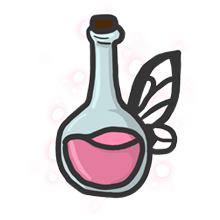
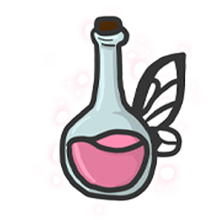
lots of little fixes
Edited titles to be bolder, updated fairy tonic illustration, center home page header image, fixed navigation text to float in the center

Changed region(s): [[0.2455, 0.0545, 0.8727, 0.9273]]

diff --git a/recipes.html b/recipes.html
@@ -140,7 +140,7 @@
               <!-- Cakes Recipe page -->
               <div class="tabs-panel is-active" id="panel1v">
                 <div class="panel-title">
-                  <h1>Cakes</h1>
+                  <h1 class="recipe-title">Cakes</h1>
                 </div>
 
                 <!-- First Row -->
@@ -203,7 +203,7 @@
               <!-- Pie Recipe page -->
               <div class="tabs-panel" id="panel2v">
                 <div class="panel-title">
-                  <h1>Pies</h1>
+                  <h1 class="recipe-title">Pies</h1>
                 </div>
 
                 <!-- First Row -->
@@ -254,7 +254,7 @@
               <!-- Crepes Recipe page -->
               <div class="tabs-panel" id="panel3v">
                 <div class="panel-title">
-                  <h1>Crepes</h1>
+                  <h1 class="recipe-title">Crepes</h1>
                 </div>
 
                 <!-- First Row -->
@@ -278,7 +278,7 @@
               <!-- Elixirs Recipe page -->
               <div class="tabs-panel elixirs" id="panel4v">
                 <div class="panel-title">
-                  <h1>Elixirs</h1>
+                  <h1 class="recipe-title">Elixirs</h1>
                 </div>
 
                 <!-- First Row -->

diff --git a/index.html b/index.html
@@ -125,8 +125,8 @@
         <div class="callout" div id="body">
           <!-- PAGE HEADER AND TITLE -->
           <div class="callout" div id="title-index">
-            <img src="images/zelda overlooking.jpg" class="center" img id="carry" alt="Zelda carrying food">
-            <h1>Taste of the Wild</h1>
+            <img src="images/zelda overlooking.jpg" class="header-img" img id="carry" alt="Zelda carrying food">
+            <h1 class="recipe-title">Taste of the Wild</h1>
             <h5>Recipes inspired by Breath of the Wild</h5>
           </div>
           <!-- WELCOME AND ABOUT CONTENT -->

diff --git a/cakes/fruitcake.html b/cakes/fruitcake.html
@@ -92,7 +92,7 @@
         <div class="callout" div id="body">
           <div class="callout" div id="title">
             <img src="../images/fruit cake.png" img id="cake" alt="Fruit Cake">
-            <h1>Fruitcake</h1>
+            <h1 class="recipe-title">Fruitcake</h1>
             <p>White Sponge Cake, whipped cream frosting, fresh strawberry filling, and fresh fruit toppings.</p>
             <p class="quote">"Making ample use of fruits found all over Hyrule, this cake is a must for celebrations."</p>
           </div>

diff --git a/cakes/monstercake.html b/cakes/monstercake.html
@@ -93,7 +93,7 @@
         <div class="callout" div id="body">
           <div class="callout" div id="title">
             <img src="../images/monster-cake.png" img id="cake" alt="Fruit Cake">
-            <h1>Monster Cake</h1>
+            <h1 class="recipe-title">Monster Cake</h1>
             <p>Chocolate Sponge Cake with Chocolate Buttercream Frosting.</p>
             <p class="quote">"It's said that once you have a taste of this cake, you'll never forget its sweetness."</p>
           </div>

diff --git a/cakes/carrotcake.html b/cakes/carrotcake.html
@@ -97,7 +97,7 @@
         <div class="callout" div id="body">
           <div class="callout" div id="title">
             <img src="../images/carrot-cake.png" img id="cake" alt="Fruit Cake">
-            <h1>Carrot Cake</h1>
+            <h1 class="recipe-title">Carrot Cake</h1>
             <p>Carrot Cake, cream cheese frosting, candied orange topping.</p>
             <p class="quote">"Even those who don't like carrots tend to enjoy the mild sweetness of this cake."</p>
           </div>

diff --git a/pies/pumpkinpie.html b/pies/pumpkinpie.html
@@ -91,7 +91,7 @@
         <div class="callout" div id="body">
           <div class="callout" div id="title">
             <img src="../images/pumpkin-pie.png" img id="cake" alt="Fruit Cake">
-            <h1>Pumpkin Pie</h1>
+            <h1 class="recipe-title">Pumpkin Pie</h1>
             <p>Delicious any time of year.</p>
             <p class="quote">"The intense sweetness of a fortified pumpkin makes this dessert popular among children."</p>
           </div>

diff --git a/cakes/nutcake.html b/cakes/nutcake.html
@@ -93,7 +93,7 @@
         <div class="callout" div id="body">
           <div class="callout" div id="title">
             <img src="../images/nutcake.png" img id="cake" alt="Fruit Cake">
-            <h1>Nutcake</h1>
+            <h1 class="recipe-title">Nutcake</h1>
             <p>Spice Cake and candied nut toppings.</p>
             <p class="quote">"Forest nuts give this cake a pleasant texture and a simple, understated sweetness."</p>
           </div>

diff --git a/crepes/crepes-honey.html b/crepes/crepes-honey.html
@@ -97,7 +97,7 @@
                 <img src="../images/honey-crepe.png" img id="cake" alt="Fruit Cake">
               </div>
               <div class="columns large-8">
-                <h1>Crepes with Honey Syrup</h1>
+                <h1 class="recipe-title">Crepes with Honey Syrup</h1>
                 <p class="quote">"Honey has been drizzled over thin crepes to bring out their natural sweetness and flavor."</p>
               </div>
             </div>

diff --git a/css/style.css b/css/style.css
@@ -5,8 +5,9 @@
 }
 
 #carry{
-    float: left;
-    padding-right: 4em;
+  margin: auto;
+  display: block;
+  padding-bottom: 1em;
 }
 .callout{
     position: relative;
@@ -60,6 +61,12 @@
 
 #directions h3{
   font-size: 250%;
+}
+
+.recipe-title{
+  font-size: 250%;
+  font-weight: bold;
+  font-family: 'Cinzel', serif;
 }
 
 #directions.callout{
@@ -257,4 +264,8 @@ h5{
 
 ul{
   list-style: none;
+}
+
+.menu li{
+  padding: 0.7rem 1rem;
 }

diff --git a/elixirs/chilly.html b/elixirs/chilly.html
@@ -94,7 +94,7 @@
           <div class="callout" div id="title">
 
             <img src="../images/chilly.png" img id="cake" alt="chilly elixir">
-            <h1>Chilly Elixir</h1>
+            <h1 class="recipe-title">Chilly Elixir</h1>
             <p>Icy Blue</p>
             <p class="quote">"Grants a high-level cooling effect, raising your body's reistance to heat. Crucial for long journeys through the desert."</p>
           </div>

diff --git a/pies/fruitpie.html b/pies/fruitpie.html
@@ -93,7 +93,7 @@
           <div class="callout" div id="title">
 
             <img src="../images/fruit-pie.png" img id="cake" alt="Fruit Cake">
-            <h1>Fruit Pie</h1>
+            <h1 class="recipe-title">Fruit Pie</h1>
             <p>Made with the Berries of Your Choice.</p>
             <p class="quote">"A celebration isn't a celebration until this fruit-filled crust hits the table!"</p>
           </div>

diff --git a/pies/applepie.html b/pies/applepie.html
@@ -93,7 +93,7 @@
           <div class="callout" div id="title">
 
             <img src="../images/apple-pie.png" img id="cake" alt="Fruit Cake">
-            <h1>Apple Pie</h1>
+            <h1 class="recipe-title">Apple Pie</h1>
             <p>Sweet Apples and Cinnamon.</p>
             <p class="quote">"The crispy, flaky pie crust and sweet apples are a match made in heaven."</p>
           </div>
